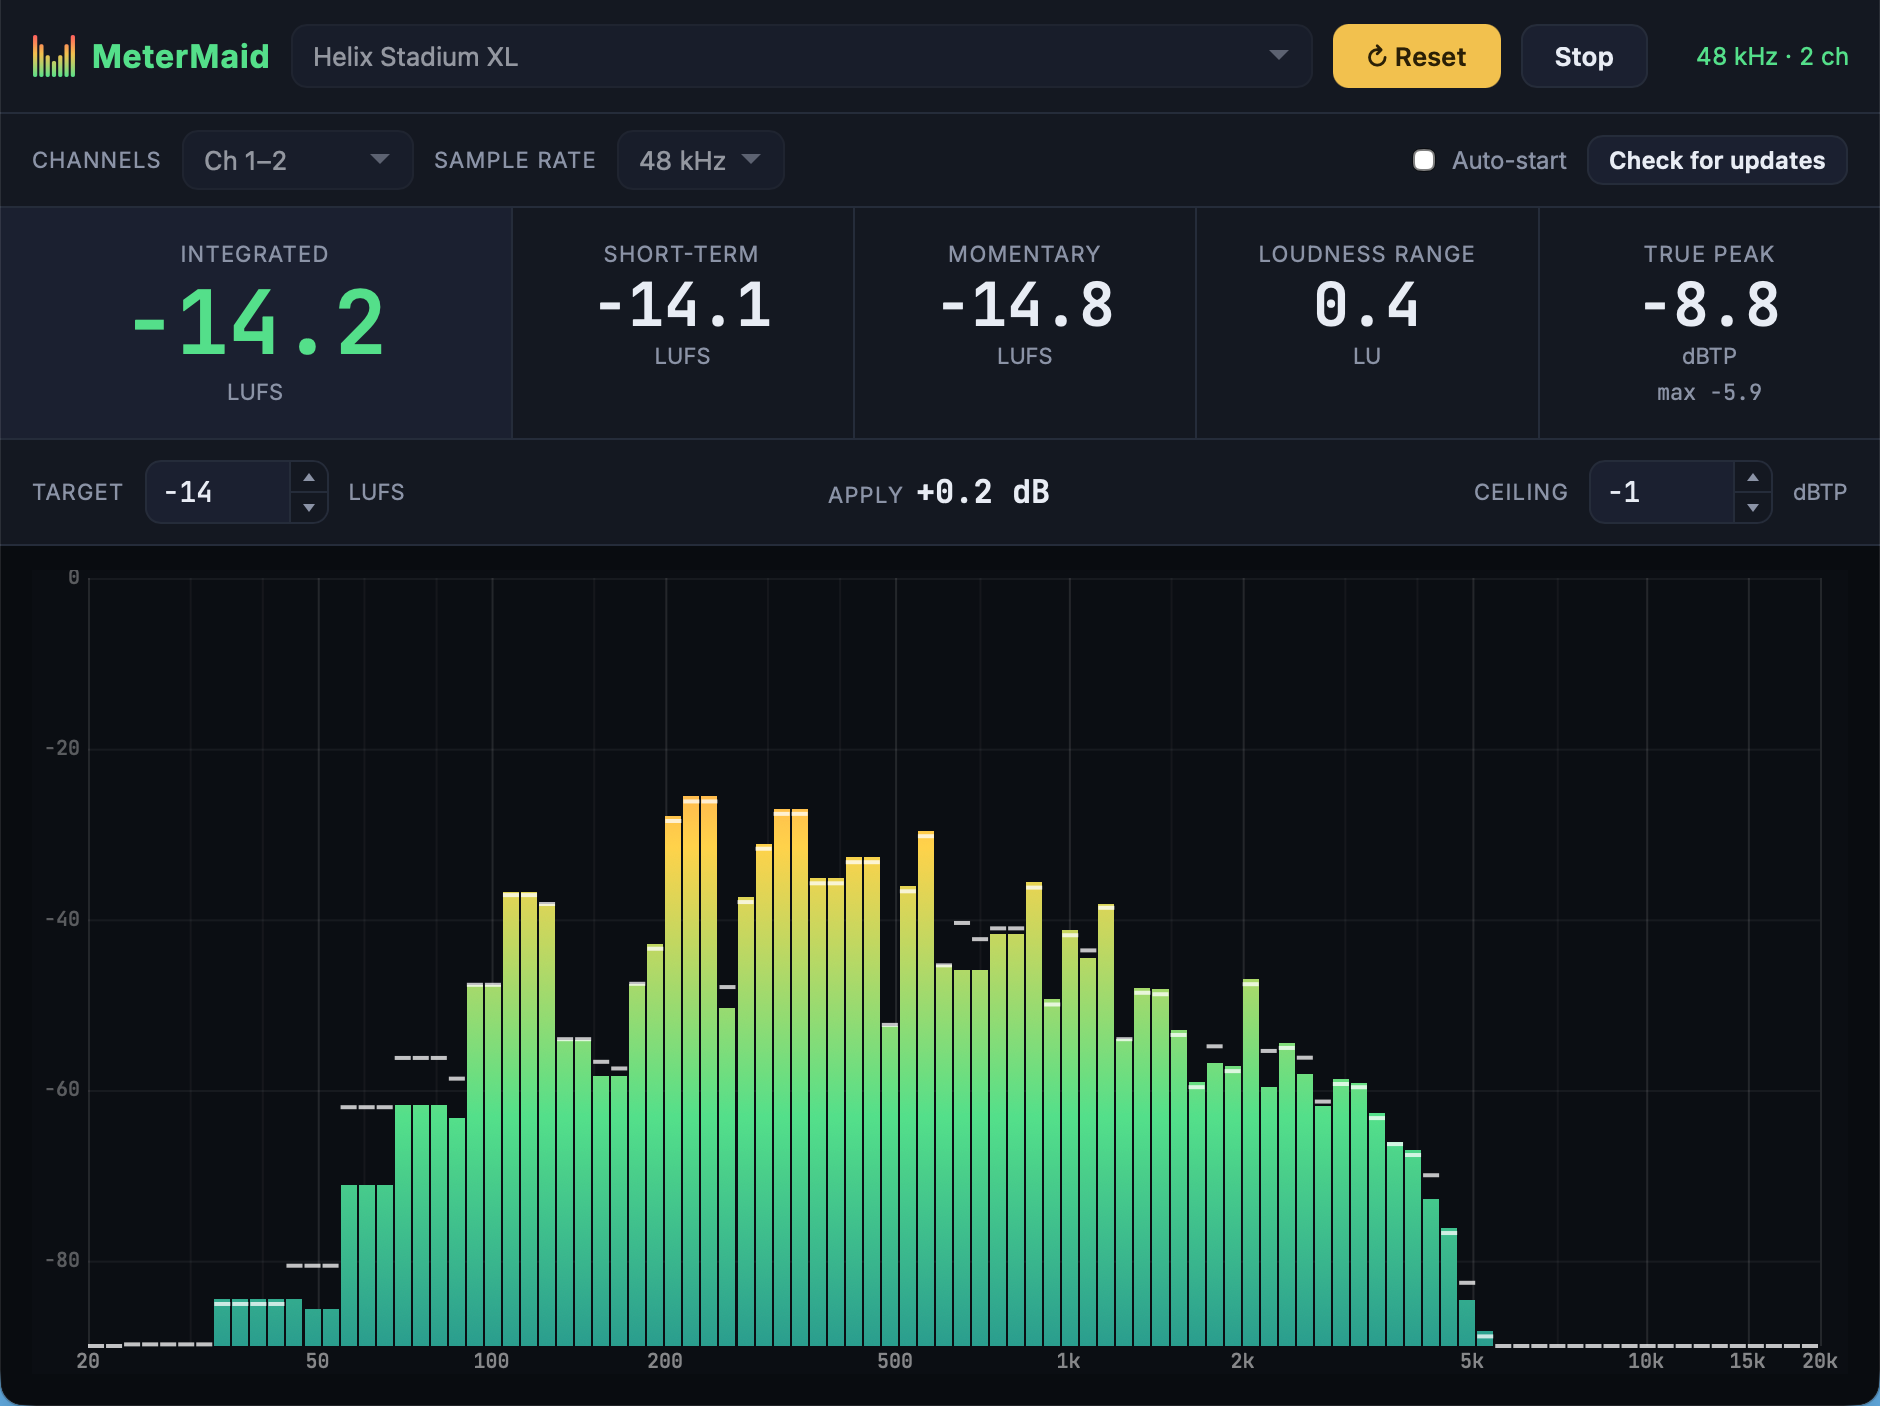
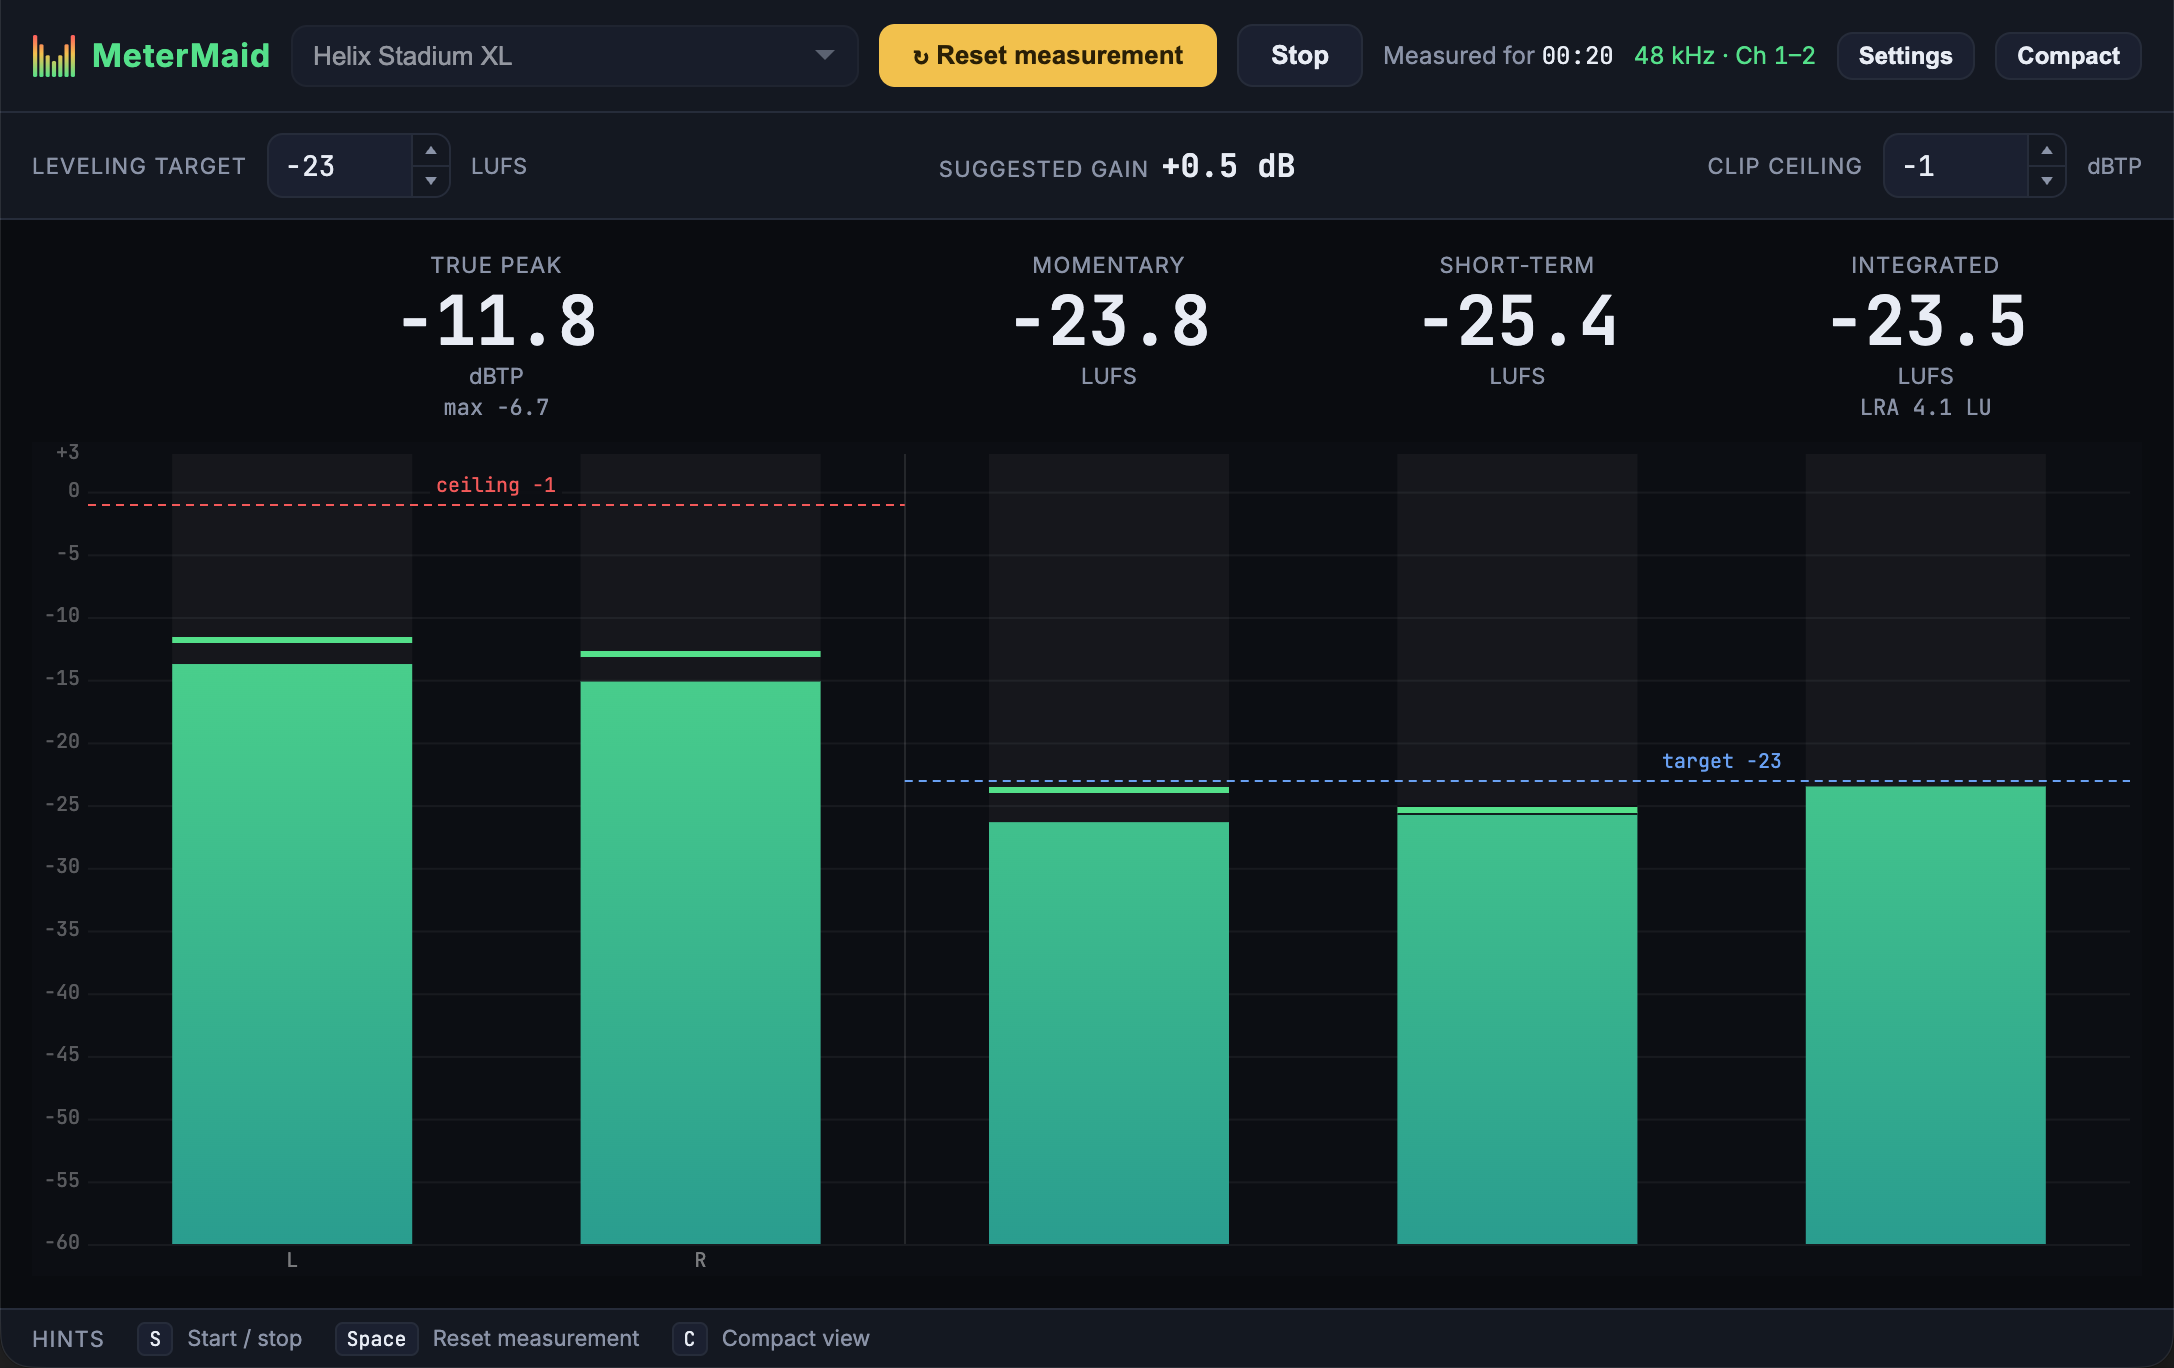
Update the website copy and screenshots for 0.7.0 (#55)
* Update the website copy for 0.7.0

Adds feature cards for the loudness bar meters, EBU scales, and compact
view; describes the spectrum analyzer as optional; renames the Target /
Apply helper to Leveling target / Suggested gain; lists the C shortcut;
and updates the hero and meta description, which led with the spectrum.

* Add the 0.7.0 screenshots to the website and README

The main screenshot is the default bar-meter view. Two more sit beneath
it on the home page: the spectrum analyzer with Settings open, and
compact view. Alt text describes the new images.

---------

diff --git a/README.md b/README.md
@@ -2,7 +2,7 @@
 
 A cross-platform desktop **LUFS / loudness meter** built with [Tauri](https://tauri.app) (Rust audio engine + web UI). It measures loudness according to the **ITU-R BS.1770 / EBU R128** standard and displays a real-time frequency spectrum, handy for normalizing the levels of guitar amp/effects patches (e.g., Line 6 Helix Stadium XL, Neural DSP Quad Cortex, Fractal Axe-FX) or any audio source.
 
-![MeterMaid metering a stereo input: loudness readouts, true-peak, target/apply helper, and a log-frequency spectrum analyzer](docs/screenshot.png)
+![MeterMaid metering a stereo input: bar meters for true peak, momentary, short-term, and integrated loudness under their readouts, with the leveling target and clip ceiling drawn as lines](docs/screenshot.png)
 
 > **Why level patches?** A louder patch almost always *sounds* better, even when it isn't, so honest tone comparisons need matched loudness. The companion blog post, [Level Guitar Patches with MeterMaid](https://reverentgeek.com/leveling-guitar-patches-with-tauri/), explains the problem and walks through a full leveling session with the app.
 
